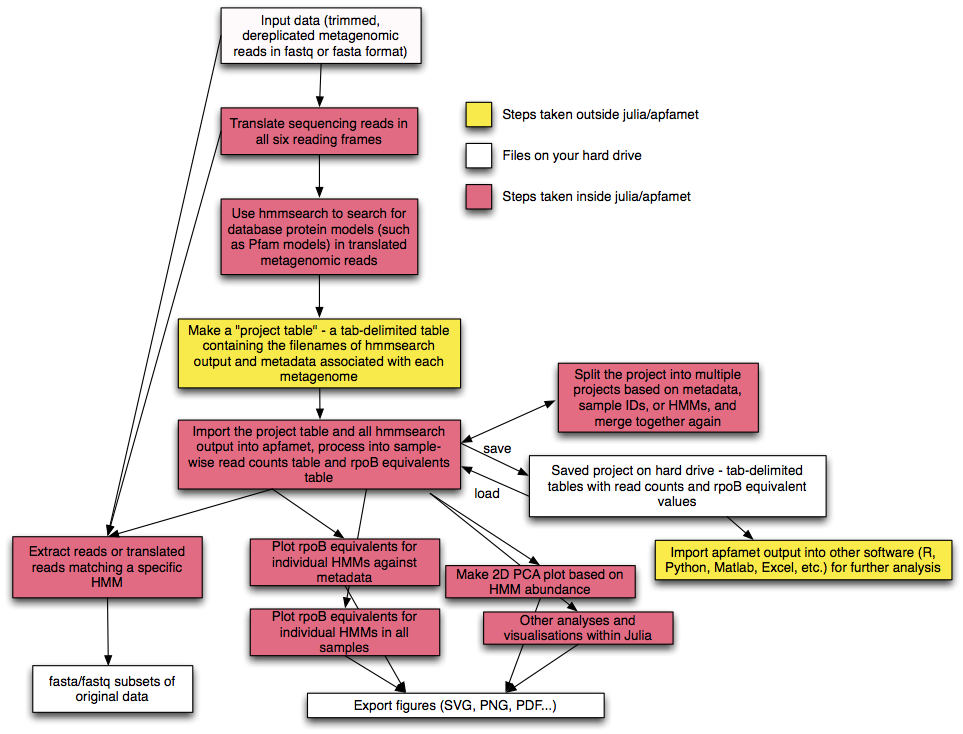
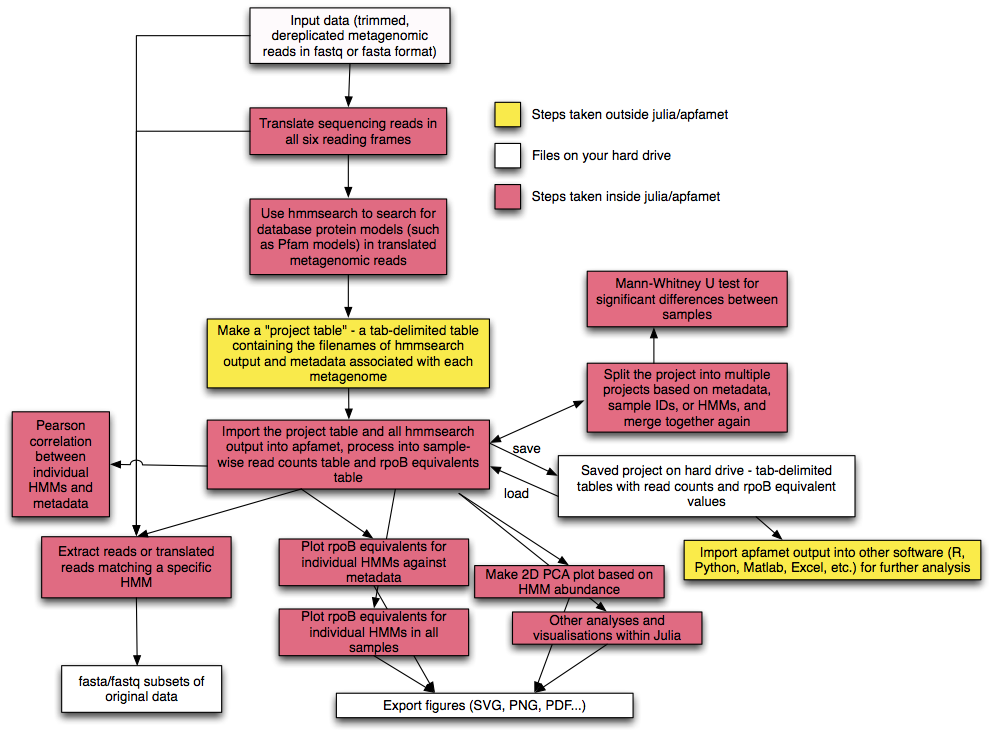
updated tutorial and flowchart with more stats functions

diff --git a/README.md b/README.md
@@ -92,6 +92,7 @@ To load a project that was previously saved use this command, specifying the `ba
 	```
 	
 	![plotcorrelation()](https://github.com/ianpgm/apfamet/blob/master/doc/plotcorrelation_example.png)
+	
 	Now you might want to check how well the HMM abundance correlates with the metadata parameter. You can do that with the following command to find the [Pearson correlation coefficient](https://en.wikipedia.org/wiki/Pearson_product-moment_correlation_coefficient):
 	```
 	pearson_correlation(project,modelname,parameter)
@@ -170,6 +171,10 @@ To load a project that was previously saved use this command, specifying the `ba
 	#This shows a "very significant" rejection of the null hypothesis that the abundance of "POR" (Pyruvate ferredoxin/flavodoxin oxidoreductase) in both of these samples came from the same population, i.e. they're different.
 	```
 	
+	You can also perform a Mann-Whitney _U_ test to check for significant differences between HMMs in the same project.
+	```
+	mann_whitney_compare_models(project,model1,model2)
+	```
 
 ##How apfamet's normalisation works 
 Apfamet uses the gene encoding RNA polymerase beta subunit (_rpoB_) to normalise counts in metagenomes. _rpoB_ is a universal, single-copy gene in prokaryotes, and thus a good basis for normalisation and comparison between data sets. There are seven pfam models apfamet uses to detect the RpoB protein sequence, these are:
